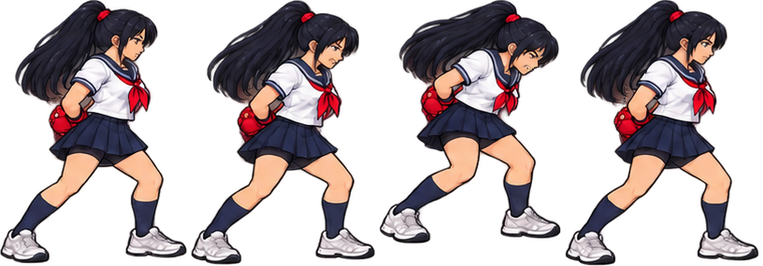
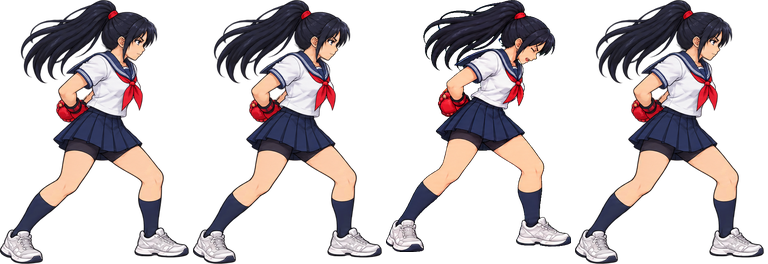
fix: keep Aoi grounded and consistent during body punches

Changed region(s): [[0.0, 0.0, 0.9948, 1.0], [0.0, 0.8182, 0.0904, 1.0]]

diff --git a/character-lab.html b/character-lab.html
@@ -1,4 +1,4 @@
-<!doctype html><html lang="ja"><meta charset="utf-8"><meta name="viewport" content="width=device-width,initial-scale=1"><title>ストリートエンジェル — キャラクター比較</title><style>body{background:#11101b;color:#eee;font:16px system-ui;margin:24px auto;max-width:1100px;padding:0 16px}h1{font-size:26px}p{color:#bcb8ca}button,select{font:inherit;background:#292537;color:#fff;border:1px solid #73677e;padding:12px;margin:4px;border-radius:6px}canvas{width:100%;background:#201c2d;border:1px solid #63576f}a{color:#ffcb64}</style><h1>葵と黒蛇会</h1><p>同じ足元の線で、体格と構えを比較。向きや動きを切り替えられます。</p><label>動き <select id="pose"><option value="idle">構え</option><option value="walk">歩き</option><option value="attack">攻撃</option><option value="restrain">拘束</option><option value="escape">拘束から脱出</option><option value="assist">追加拘束・腹パン4回</option><option value="hurt">被弾</option><option value="down">倒れる</option><option value="getup">起き上がる</option><option value="rush">ボス：突進</option><option value="slam">ボス：叩きつけ</option></select></label><button id="flip">向きを変える</button><button id="play">停止</button><button id="step">少し進める</button><canvas id="lineup" width="1100" height="470" aria-label="キャラクター5人の比較"></canvas><p>葵：軽快な連打 ／ チンピラ：前のめりの拳 ／ ヤンキー：間合いの長い蹴り ／ 大男：重い一撃 ／ 剛田：長ラン姿の突進・叩きつけ</p><a href="street-angel.html">ゲームへ</a><script src="assets/characters/aoi_assist_v1.js"></script><script src="assets/characters/thug_assist_v1.js?v=2"></script><script src="assets/characters/yankee_assist_v1.js?v=2"></script><script src="assets/characters/brute_assist_v1.js"></script><script src="assets/characters/aoi_restraint_v3.js"></script><script src="assets/characters/thug_restraint_v2.js"></script><script src="assets/characters/yankee_restraint_v2.js?v=2"></script><script src="assets/characters/brute_restraint_v2.js"></script><script src="visual-style.js?v=2"></script><script src="assets/aoi_hit.js"></script><script src="character-motion.js?v=9"></script><script src="sprite-scale.js?v=2"></script><script src="assets/br_walk.js?v=2"></script><script src="assets/br_cmb.js?v=2"></script><script src="assets/thug_walk.js"></script><script src="assets/yk_walk.js?v=2"></script><script src="assets/aoi_walk4.js"></script><script src="assets/characters/aoi_attack_v2.js"></script><script src="assets/characters/thug_combat_v2.js"></script><script src="assets/characters/yankee_combat_v2.js?v=2"></script><script src="assets/characters/boss_motion_v2.js"></script><script src="assets/characters/boss_combat_v2.js"></script><script src="assets/characters/yankee_hold_v1.js"></script><script src="assets/characters/brute_hold_v1.js"></script><script src="assets/characters/boss_hold_v1.js"></script><script src="restraint-pairs.js"></script><script>
+<!doctype html><html lang="ja"><meta charset="utf-8"><meta name="viewport" content="width=device-width,initial-scale=1"><title>ストリートエンジェル — キャラクター比較</title><style>body{background:#11101b;color:#eee;font:16px system-ui;margin:24px auto;max-width:1100px;padding:0 16px}h1{font-size:26px}p{color:#bcb8ca}button,select{font:inherit;background:#292537;color:#fff;border:1px solid #73677e;padding:12px;margin:4px;border-radius:6px}canvas{width:100%;background:#201c2d;border:1px solid #63576f}a{color:#ffcb64}</style><h1>葵と黒蛇会</h1><p>同じ足元の線で、体格と構えを比較。向きや動きを切り替えられます。</p><label>動き <select id="pose"><option value="idle">構え</option><option value="walk">歩き</option><option value="attack">攻撃</option><option value="restrain">拘束</option><option value="escape">拘束から脱出</option><option value="assist">追加拘束・腹パン4回</option><option value="hurt">被弾</option><option value="down">倒れる</option><option value="getup">起き上がる</option><option value="rush">ボス：突進</option><option value="slam">ボス：叩きつけ</option></select></label><button id="flip">向きを変える</button><button id="play">停止</button><button id="step">少し進める</button><canvas id="lineup" width="1100" height="470" aria-label="キャラクター5人の比較"></canvas><p>葵：軽快な連打 ／ チンピラ：前のめりの拳 ／ ヤンキー：間合いの長い蹴り ／ 大男：重い一撃 ／ 剛田：長ラン姿の突進・叩きつけ</p><a href="street-angel.html">ゲームへ</a><script src="assets/characters/aoi_assist_v1.js?v=3"></script><script src="assets/characters/thug_assist_v1.js?v=2"></script><script src="assets/characters/yankee_assist_v1.js?v=2"></script><script src="assets/characters/brute_assist_v1.js"></script><script src="assets/characters/aoi_restraint_v3.js"></script><script src="assets/characters/thug_restraint_v2.js"></script><script src="assets/characters/yankee_restraint_v2.js?v=2"></script><script src="assets/characters/brute_restraint_v2.js"></script><script src="visual-style.js?v=2"></script><script src="assets/aoi_hit.js"></script><script src="character-motion.js?v=9"></script><script src="sprite-scale.js?v=3"></script><script src="assets/br_walk.js?v=2"></script><script src="assets/br_cmb.js?v=2"></script><script src="assets/thug_walk.js"></script><script src="assets/yk_walk.js?v=2"></script><script src="assets/aoi_walk4.js"></script><script src="assets/characters/aoi_attack_v2.js"></script><script src="assets/characters/thug_combat_v2.js"></script><script src="assets/characters/yankee_combat_v2.js?v=2"></script><script src="assets/characters/boss_motion_v2.js"></script><script src="assets/characters/boss_combat_v2.js"></script><script src="assets/characters/yankee_hold_v1.js"></script><script src="assets/characters/brute_hold_v1.js"></script><script src="assets/characters/boss_hold_v1.js"></script><script src="restraint-pairs.js"></script><script>
 const c=document.getElementById('lineup'),g=c.getContext('2d'),select=document.getElementById('pose');
 const defs=[
  ['aoi','葵',1,1,['aoi_walk4','characters/aoi_attack_v2','aoi_hit'],['SPR_WALK4','SPR_AOI_ATK_V2','SPR_HIT'],[0,1,2,3,4,6,8,9]],
@@ -7,7 +7,7 @@ const defs=[
  ['brute','大男',1.12,1,['br_walk','br_cmb'],['SPR_BRW','SPR_BRC'],[0,1,3,5,6,7,9]],
  ['boss','剛田',1.28,1,['characters/boss_motion_v2','characters/boss_combat_v2'],['SPR_BOSSM_V2','SPR_BOSSC_V2'],[0,1,2,3]],
 ];
-for(const d of defs){if(d[0]==='boss')continue;d[4].push('characters/'+d[0]+'_restraint_'+(d[0]==='aoi'?'v3':'v2'));d[5].push('SPR_'+d[0].toUpperCase()+'_RESTRAINT');d[4].push('characters/'+d[0]+'_assist_v1');d[5].push('SPR_'+d[0].toUpperCase()+'_ASSIST')}let frame=0,playing=true,face=1;const imgs=defs.map((d,n)=>d[4].map((src,sheet)=>{const im=new Image();im.onload=()=>{if(d[0]!=='yankee')return;const c=document.createElement('canvas');c.width=im.naturalWidth;c.height=im.naturalHeight;const ctx=c.getContext('2d');ctx.drawImage(im,0,0);const p=ctx.getImageData(0,0,c.width,c.height);shiftClothingPixels(p.data,'yankee',0);ctx.putImageData(p,0,0);imgs[n][sheet]=c};im.src='assets/'+src+'.png'+(src.includes('_assist_')?'?v=2':d[0]==='yankee'?'?v=2':'');return im}));
+for(const d of defs){if(d[0]==='boss')continue;d[4].push('characters/'+d[0]+'_restraint_'+(d[0]==='aoi'?'v3':'v2'));d[5].push('SPR_'+d[0].toUpperCase()+'_RESTRAINT');d[4].push('characters/'+d[0]+'_assist_v1');d[5].push('SPR_'+d[0].toUpperCase()+'_ASSIST')}let frame=0,playing=true,face=1;const imgs=defs.map((d,n)=>d[4].map((src,sheet)=>{const im=new Image();im.onload=()=>{if(d[0]!=='yankee')return;const c=document.createElement('canvas');c.width=im.naturalWidth;c.height=im.naturalHeight;const ctx=c.getContext('2d');ctx.drawImage(im,0,0);const p=ctx.getImageData(0,0,c.width,c.height);shiftClothingPixels(p.data,'yankee',0);ctx.putImageData(p,0,0);imgs[n][sheet]=c};im.src='assets/'+src+'.png'+(src.includes('_assist_')?'?v=3':d[0]==='yankee'?'?v=2':'');return im}));
 const holdPairs=loadRestraintPairs();
 function render(){g.clearRect(0,0,c.width,c.height);g.fillStyle='#ffcb64';g.fillRect(20,340,1060,1);g.font='bold 22px system-ui';g.textAlign='center';
  defs.forEach((d,n)=>{const [key,label,scale,k,,data,walk]=d;const x=110+n*220,mode=select.value;let sheet=1,i=0;const t=frame%(mode==='assist'?ASSIST_TIMING.end:54);

diff --git a/street-angel.html b/street-angel.html
@@ -5,8 +5,8 @@
 <script src="visual-style.js?v=2"></script>
 <script src="damage-voice.js?v=3"></script>
 <script src="character-motion.js?v=9"></script>
-<script src="sprite-scale.js?v=2"></script>
-<script src="enemy-restraint.js?v=10"></script>
+<script src="sprite-scale.js?v=3"></script>
+<script src="enemy-restraint.js?v=11"></script>
 <script src="assets/characters/yankee_hold_v1.js"></script>
 <script src="assets/characters/brute_hold_v1.js"></script>
 <script src="assets/characters/boss_hold_v1.js"></script>
@@ -14,7 +14,7 @@
 <script src="enemy-flanking.js?v=1"></script>
 <script src="enemy-mount.js?v=1"></script>
 <script src="assets/characters/mount_v1.js?v=4"></script>
-<script src="assets/characters/aoi_assist_v1.js"></script>
+<script src="assets/characters/aoi_assist_v1.js?v=3"></script>
 <script src="assets/characters/thug_assist_v1.js?v=2"></script>
 <script src="assets/characters/yankee_assist_v1.js?v=2"></script>
 <script src="assets/characters/brute_assist_v1.js"></script>
@@ -583,7 +583,7 @@ for(const kind of ['aoi','thug','yankee','brute']){
       shiftClothingPixels(pixels.data,kind,variant);ctx.putImageData(pixels,0,0);assist.palettes.push(c);
     }
   };
-  assist.img.src='assets/characters/'+kind+'_assist_v1.png?v=2';ASSIST_SPRITES[kind]=assist;
+  assist.img.src='assets/characters/'+kind+'_assist_v1.png?v=3';ASSIST_SPRITES[kind]=assist;
   const entry={img:new Image(),frames:window['SPR_'+kind.toUpperCase()+'_RESTRAINT']?.frames,asset:'characters/'+kind+'_restraint_'+(kind==='aoi'?'v3':'v2')};
   entry.img.onload=()=>{
     if(kind!=='yankee'&&kind!=='thug')return;

diff --git a/assets/characters/aoi_assist_v1.js b/assets/characters/aoi_assist_v1.js
@@ -1,1 +1,1 @@
-window.SPR_AOI_ASSIST={"frames": [{"x": 0, "y": 0, "w": 187, "h": 264, "ax": 92.35, "ay": 264, "sourceBounds": [74, 68, 274, 351]}, {"x": 191, "y": 0, "w": 184, "h": 265, "ax": 91.42, "ay": 265, "sourceBounds": [383, 66, 580, 350]}, {"x": 379, "y": 0, "w": 182, "h": 244, "ax": 90.49, "ay": 244, "sourceBounds": [673, 89, 868, 351]}, {"x": 565, "y": 0, "w": 194, "h": 266, "ax": 96.55, "ay": 266, "sourceBounds": [984, 66, 1192, 351]}]};
+window.SPR_AOI_ASSIST={"frames": [{"x": 0, "y": 0, "w": 189, "h": 264, "ax": 94.17, "ay": 264, "sourceBounds": [610, 37, 1075, 686]}, {"x": 193, "y": 0, "w": 189, "h": 264, "ax": 94.17, "ay": 264, "sourceBounds": [610, 37, 1075, 686]}, {"x": 386, "y": 0, "w": 185, "h": 252, "ax": 92.34, "ay": 252, "sourceBounds": [1130, 64, 1585, 683]}, {"x": 575, "y": 0, "w": 189, "h": 264, "ax": 94.17, "ay": 264, "sourceBounds": [610, 37, 1075, 686]}]};

diff --git a/enemy-restraint.js b/enemy-restraint.js
@@ -42,7 +42,8 @@ const EnemyRestraint=(()=>{
   }
   function assistDistance(e,p){
     const paired=p?.heldBy&&['bearhug','armlock'].includes(style(p.heldBy));
-    return (paired?50:e.type==='brute'?72:84)*(e.scale||1);
+    const rearWrist=p?.heldBy&&style(p.heldBy)==='rearWrist';
+    return (paired?50:rearWrist?(e.type==='brute'?60:64):e.type==='brute'?72:84)*(e.scale||1);
   }
   function alignAssist(e,p){e.face=-p.face;e.x=p.x+p.face*assistDistance(e,p);e.y=p.y;e.vx=0}
   function startAssist(e,p){

diff --git a/sprite-scale.js b/sprite-scale.js
@@ -7,7 +7,7 @@ const SPRITE_SCALES={
   aoi_jump:.90,
   aoi_hit:.82,
   'characters/aoi_restraint_v3':1,
-  'characters/aoi_assist_v1':.88,
+  'characters/aoi_assist_v1':1,
   thug_walk:1,
   'characters/thug_combat_v2':1,
   'characters/thug_restraint_v2':1,

diff --git a/tools/pack_assist_sheet.py b/tools/pack_assist_sheet.py
@@ -15,7 +15,13 @@ def main():
     for row,(kind,height) in enumerate([('aoi',264),('thug',300),('yankee',300),('brute',331)]):
         character_source=source
         character_poses=poses[row*4:row*4+4]
-        if kind=='brute':
+        if kind=='aoi':
+            character_source=ROOT/'source_art/character-v2/aoi-assist-grounded-v2-source.png'
+            impact=extract_poses(Image.open(character_source),4,1,'red')[2]
+            held=extract_poses(Image.open(ROOT/'source_art/character-v2/aoi-restraint-rear-v3-source.png'),4,1,'red')[1]
+            # Reuse the exact rear-hold stance between hits; only the torso reacts.
+            character_poses=[held,held,impact,held]
+        elif kind=='brute':
             character_source=ROOT/'source_art/character-v2/brute-assist-source.png'
             character_poses=extract_poses(Image.open(character_source),4,1,'red')
         elif kind in ('thug','yankee'):
@@ -33,6 +39,9 @@ def main():
         report.append({'kind':kind,'source':character_source.name,'output':out.name,'referenceHeight':height,
                        'sourceSha256':hashlib.sha256(character_source.read_bytes()).hexdigest(),
                        'atlasSha256':hashlib.sha256(out.read_bytes()).hexdigest(),'frameCount':4,'scale':scale})
+        if kind=='aoi':
+            report[-1]['heldSource']='aoi-restraint-rear-v3-source.png'
+            report[-1]['heldSourceSha256']=hashlib.sha256((character_source.parent/report[-1]['heldSource']).read_bytes()).hexdigest()
         print(kind,atlas.size)
     (ROOT/'assets/characters/assist-validation.json').write_text(json.dumps(report,indent=2)+'\n')
 

diff --git a/tests/test_assist_assets.py b/tests/test_assist_assets.py
@@ -19,6 +19,14 @@ class AssistAssetsTests(unittest.TestCase):
             self.assertEqual(im.getextrema()[3][0],0)
             frames=json.loads(path.with_suffix('.js').read_text().split('=',1)[1].rstrip(';\n'))['frames']
             self.assertEqual(len(frames),4)
+            if report['kind']=='aoi':
+                held=root/'source_art/character-v2'/report['heldSource']
+                self.assertEqual(hashlib.sha256(held.read_bytes()).hexdigest(),report['heldSourceSha256'])
+                crops=[im.crop((f['x'],0,f['x']+f['w'],f['h'])) for f in frames]
+                self.assertEqual(crops[0].tobytes(),crops[1].tobytes())
+                self.assertEqual(crops[0].tobytes(),crops[3].tobytes())
+                # A small head dip is allowed; the old deep crouch lost >7% height.
+                self.assertGreaterEqual(frames[2]['h'],frames[1]['h']*.94)
             for f in frames:
                 self.assertLessEqual(f['x']+f['w'],im.width)
                 self.assertLessEqual(f['h'],im.height)

diff --git a/docs/assist-combo.md b/docs/assist-combo.md
@@ -1,5 +1,15 @@
 # 追加拘束と腹パン4回
 
+チンピラの後ろ手拘束中の葵は、通常拘束と同じ体格・待機姿勢を使う。
+腹パンの瞬間だけ、後ろ手と接地を維持して上半身を少し折り、目を閉じる専用画像へ切り替える。
+以前の小さな倍率と深いしゃがみを廃止し、打撃側の間合いも近づけて腹への接触を合わせた。
+[採用原本](../source_art/character-v2/aoi-assist-grounded-v2-source.png)、[正確な編集プロンプト](../source_art/character-v2/aoi-assist-grounded-v2-provenance.json)。
+左右の準備/命中、4発でHP100→76、終了後ダウンをローカルブラウザーで確認。Node60件・Python11件通過。
+
+![準備](character-review/aoi-assist-grounded-prep.jpg)
+![接地したまま腹パンへ反応](character-review/aoi-assist-grounded-hit.jpg)
+![左向き](character-review/aoi-assist-grounded-left.jpg)
+
 背後の敵が葵を拘束している間、別の通常敵が正面へ近づき、上体を掴んで腹パンを4回出す。チンピラ・ヤンキー・デカブツが対象で、ボスは参加しない。同時に参加できるのは1体、追加拘束は同じ背後拘束につき1回だけ。
 
 成功後30・78・126・174更新目に各6ダメージ、合計24。各命中で10フレーム停止するため、実時間の命中間隔は約0.97秒。210更新目で正面の敵は離れる。4発完了した場合は背後の拘束も解除し、葵はその場でダウンする。吹き飛ばし・追加ダメージ・無敵時間は付けず、通常のダウン→起き上がりに移る。途中の脱出や中断ではダウンしない。命中姿勢は12更新維持し、拳を引き戻してから次を打つ。重い打撃音と小さな画面揺れで一発ずつを強調する。2人の姿勢を同じ時刻から選び、攻撃コマと命中を同期する。正面の敵も攻撃枠を消費し、最初の敵は後ろ手を保持し続ける。
